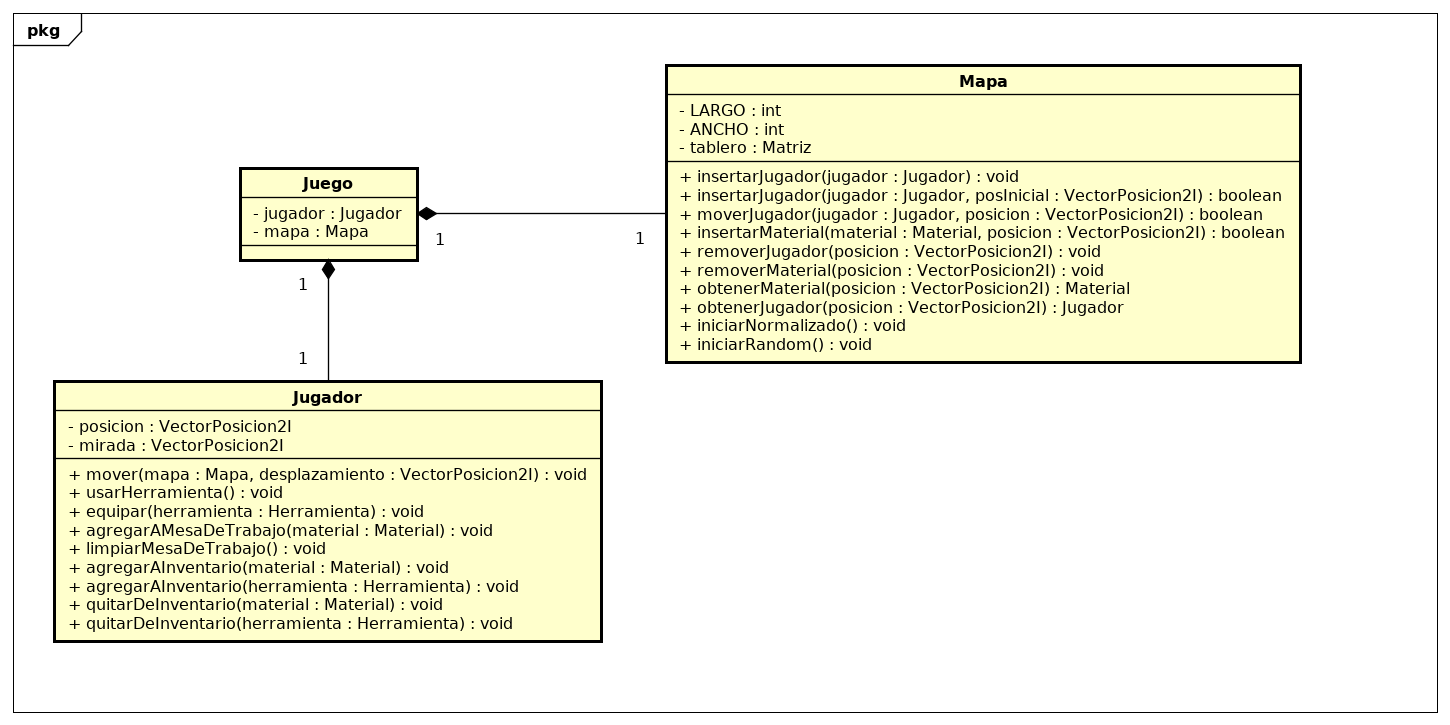
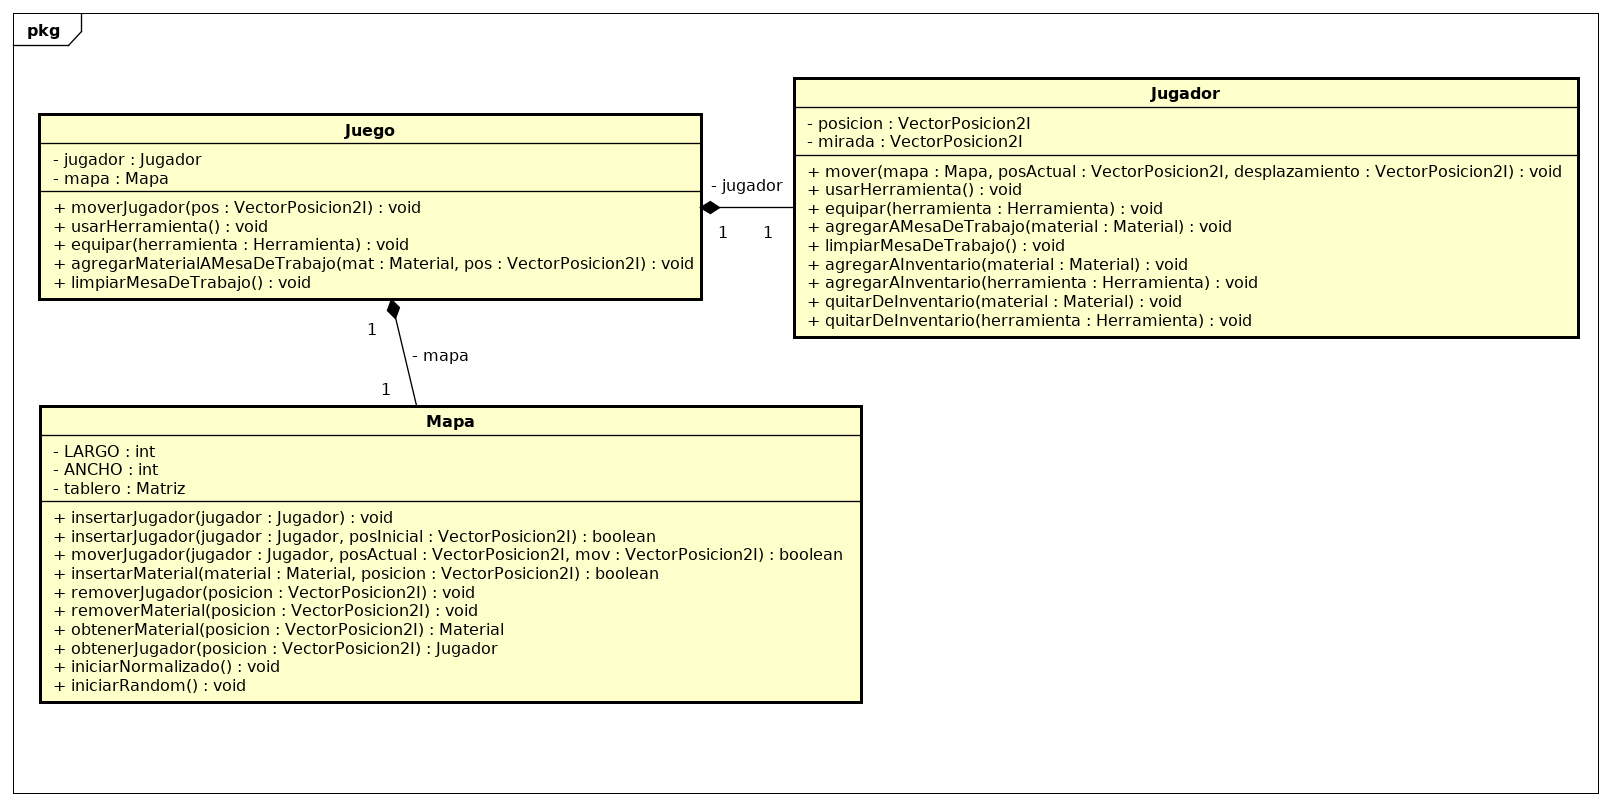
Mapa moverJugador refactor y diagramas de clase  y secuencia

diff --git a/src/algocraft/juego/mapa/Mapa.java b/src/algocraft/juego/mapa/Mapa.java
@@ -74,26 +74,21 @@ public class Mapa {
 
     // Propuesta de movimiento: Cuando funcione el juego vos apretas una tecla y se mueve. Depende la tecla
     // le pasas un vector distinto y se mueve a donde corresponde
-    public boolean moverJugador(Jugador jugador, VectorPosicion2I movimiento) {
+    public boolean moverJugador(Jugador jugador, VectorPosicion2I posicionActual, VectorPosicion2I movimiento) {
 
         // Tecla arriba: + (0 -1)
         // Tecla abajo: + (0 1)
         // Tecla izquierda: + (-1 0)
         // Tecla derecha: + (1 0)
         // Tambien en diagonal se podria con (1 1), (-1 1), etc.
-        Celda celdaActual = tablero.obtenerCelda(jugador.getPosicion());
 
-        VectorPosicion2I nuevaPosicion = jugador.getPosicion().sumar(movimiento);
+        VectorPosicion2I nuevaPosicion = posicionActual.sumar(movimiento);
 
-        Celda celdaAVisitar = tablero.obtenerCelda(nuevaPosicion);
+        boolean seColoco = tablero.colocar(jugador, nuevaPosicion);
 
-        if (celdaAVisitar == null) return false;
+        if (seColoco) { tablero.limpiarCelda(posicionActual); }
 
-        if (!celdaAVisitar.colocar(jugador)) return false;
-
-        celdaActual.limpiar();
-
-        return true;
+        return seColoco;
     }
 
     public boolean insertarJugador(Jugador jugador, VectorPosicion2I posicion) {

diff --git a/src/algocraft/juego/jugador/Jugador.java b/src/algocraft/juego/jugador/Jugador.java
@@ -63,7 +63,7 @@ public class Jugador {
     public void mover(Mapa mapa, VectorPosicion2I vectorDesplazamiento) {
 
         this.mirada = vectorDesplazamiento;
-        if (mapa.moverJugador(this, vectorDesplazamiento)) {
+        if (mapa.moverJugador(this, this.posicion, vectorDesplazamiento)) {
             this.posicion = this.posicion.sumar(vectorDesplazamiento);
         }
     }
